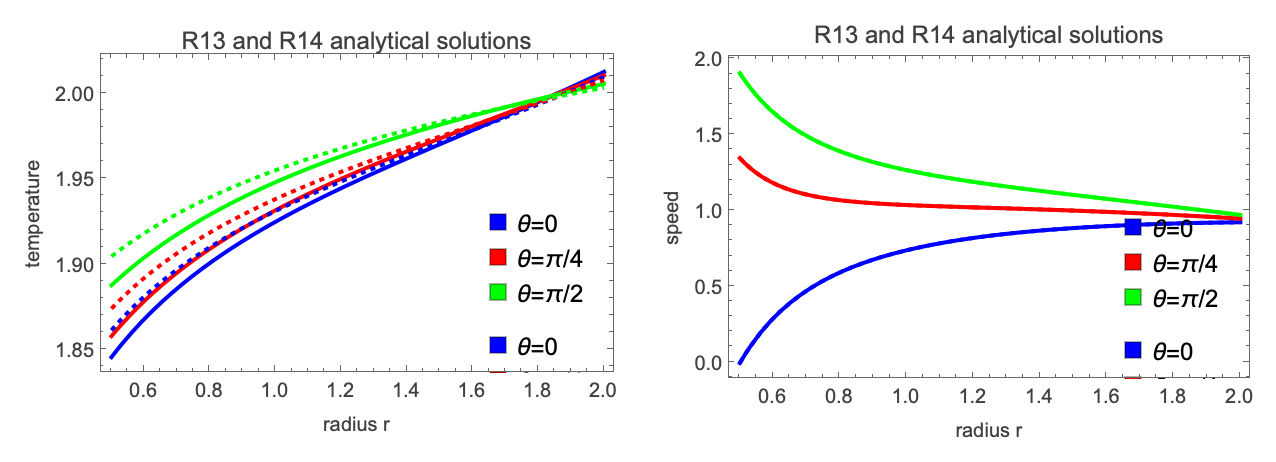
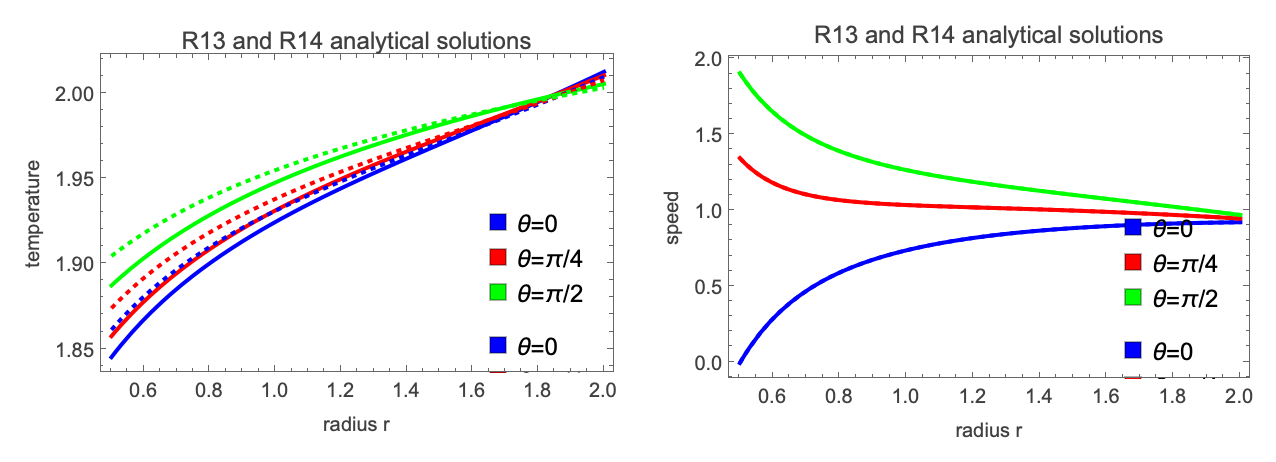
R14 converges (with generalized TaylorHood) and fixed Mathematica notebooks

Changed region(s): [[0.0917, 0.2727, 0.3362, 0.6667], [0.0611, 0.5455, 0.0917, 0.5758]]

diff --git a/tests/2d_r14/esols/1_coeffs_nosources_norot_inflow_positive.cpp b/tests/2d_r14/esols/1_coeffs_nosources_norot_inflow_positive.cpp
@@ -12,128 +12,41 @@ namespace py = pybind11;
 
 double kn = 1.0;
 
-// // Constants eps=10^-5
-// double C_0 = 1.088418574133493;
-// double C_1 = -0.4708784837854026;
-// double C_2 = -0.1060780078877844;
-// double C_3 = 0.6397363738946663;
-// double C_4 = -0.04268373030990083;
-// double C_5 = 0.1027291801998076;
-// double C_6 = -0.1867020667903523;
-// double C_7 = 2.864923360570221e-7;
-// double C_8 = 1.963244537638472;
-// double C_9 = 0.007704644954804194;
-// double CK_1 = -0.01841555365364274;
-// double CK_2 = 0.02647436311982035;
-// double CK_3 = -0.0722116290730638;
-// double CK_4 = 0.01263372155827893;
-// double CK_5 = 0.03846910453592139;
-// double CK_6 = 0.003998659067908465;
-// double CK_7 = 0.05469703377538136;
-// double CK_8 = 0.04448263813229264;
-// double CK_9 = -0.001607567940383826;
-// double CK_10 = 0.1781491089766695;
-
-// // Constants eps=10^-4
-// double C_0 = 1.088458465830652;
-// double C_1 = -0.4708795265589713;
-// double C_2 = -0.1060844454754048;
-// double C_3 = 0.6397268622237638;
-// double C_4 = -0.0426888328939176;
-// double C_5 = 0.1027285697835575;
-// double C_6 = -0.1867022145254646;
-// double C_7 = 2.864825757859002e-6;
-// double C_8 = 1.963244238669897;
-// double C_9 = 0.007703775736883896;
-// double CK_1 = -0.01841695056397639;
-// double CK_2 = 0.02647443224729624;
-// double CK_3 = -0.07220941121077909;
-// double CK_4 = 0.01263374077119675;
-// double CK_5 = 0.03846727512087732;
-// double CK_6 = 0.003998627065175332;
-// double CK_7 = 0.0547022288973836;
-// double CK_8 = 0.04447888927384885;
-// double CK_9 = -0.001604798505932295;
-// double CK_10 = 0.178170030606713;
-
-// // Constants eps=10^-3
-double C_0 = 0.;
-double C_1 = -1.013912644124032;
-double C_2 = -1.2677166806836977;
-double C_3 = 0.04992492338715168;
-double C_4 = 1.450672783912046;
-double C_5 = 0.;
-double C_6 = -0.5758748079393637;
-double C_7 = 0.10460960523903531;
-double C_8 = -0.08439250784359258;
-double C_9 = -0.05818511245891174;
-double C_10 = 0.044231601637359494;
-double C_11 = -0.12041762247811193;
-double CK_1 = -0.12330240809678536;
-double CK_2 = 2.672949922828857;
-double CK_3 = 0.01079637736731986;
-double CK_4 = -0.049087424652564535;
-double CK_5 = -0.0016650371020496696;
-double CK_6 = 0.6120973059811231;
-double CK_7 = 0.018332699081602767;
-double CK_8 = 0.049452314164954506;
-double CK_9 = -0.00002172097726484143;
-double CK_10 = 0.27405520113895676;
-double CK_11 = 0.0018031130578746815;
-double CK_12 = 0.06975633394673138;
-double CK_13 = 0.;
-double CK_14 = 0.;
-double CK_15 = -0.017056297688993596;
-double CK_16 = -0.12307639475900282;
-
-// // Constants eps=10^-2
-// double C_0 = 1.09277278324226;
-// double C_1 = -0.4709565408029582;
-// double C_2 = -0.1067733521869535;
-// double C_3 = 0.6386400415463009;
-// double C_4 = -0.04323806992636355;
-// double C_5 = 0.1026552684836559;
-// double C_6 = -0.1867184037607001;
-// double C_7 = 0.0002854059606868768;
-// double C_8 = 1.963211476840119;
-// double C_9 = 0.007609935703161957;
-// double CK_1 = -0.0185667325855968;
-// double CK_2 = 0.02647991106816222;
-// double CK_3 = -0.07196637153183492;
-// double CK_4 = 0.0126358461775725;
-// double CK_5 = 0.03826680259919404;
-// double CK_6 = 0.003995120114343059;
-// double CK_7 = 0.05526041387534725;
-// double CK_8 = 0.04406535024733006;
-// double CK_9 = -0.001300480668267124;
-// double CK_10 = 0.180421409499547;
-
-// // Constants eps=10^-1
-// double C_0 = 1.125921604594353;
-// double C_1 = -0.4686941217654443;
-// double C_2 = -0.1114820681020402;
-// double C_3 = 0.6256505450040041;
-// double C_4 = -0.04724969749859539;
-// double C_5 = 0.1015107112011764;
-// double C_6 = -0.1868598401676765;
-// double C_7 = 0.002753811809744579;
-// double C_8 = 1.962925254827631;
-// double C_9 = 0.006913904797024802;
-// double CK_1 = -0.01961423092232162;
-// double CK_2 = 0.0263626002451694;
-// double CK_3 = -0.06984306808715408;
-// double CK_4 = 0.01265423995026528;
-// double CK_5 = 0.03651538489775871;
-// double CK_6 = 0.003964481821802226;
-// double CK_7 = 0.05925618682225351;
-// double CK_8 = 0.04024172550289172;
-// double CK_9 = 0.001420920976733996;
-// double CK_10 = 0.1968170158183649;
-
-double lambda_1 = 0.6546536707079771;
+// Lambdas
+double lambda_1 = 0.5345224838248488;
 double lambda_2 = 0.9128709291752769;
 double lambda_3 = 1.224744871391589;
 double lambda_4 = 0.7453559924999299;
+
+// Constants
+double C_0 = 0.;
+double C_1 = -0.1477752433373134;
+double C_2 = -0.18478991652292415;
+double C_3 = 0.007616222250050322;
+double C_4 = 1.9613523915545736;
+double C_5 = 0.;
+double C_6 = -0.025990132046856542;
+double C_7 = -0.20544333345973814;
+double C_8 = 0.08546266837583295;
+double C_9 = -0.01965608692371418;
+double C_10 = -0.040261109257103515;
+double C_11 = 1.1399409455629295;
+double CK_1 = -0.12432069916127567;
+double CK_2 = 0.24749516983247868;
+double CK_3 = -0.02593994988782829;
+double CK_4 = -0.006941070313859298;
+double CK_5 = -0.009378323117905304;
+double CK_6 = 0.05358547329379231;
+double CK_7 = -0.06686833734375043;
+double CK_8 = 0.0005915756434353135;
+double CK_9 = -0.0019786615912372857;
+double CK_10 = 0.019027436471274847;
+double CK_11 = -0.013685132661250488;
+double CK_12 = 0.011110746687159737;
+double CK_13 = 0.;
+double CK_14 = 0.;
+double CK_15 = 0.045818412638178437;
+double CK_16 = 0.06590993098932302;
 
 double BI( int n, double x ) { return boost::math::cyl_bessel_i(n,x); }
 double BK( int n, double x ) { return boost::math::cyl_bessel_k(n,x); }
@@ -157,9 +70,10 @@ class Temperature : public dolfin::Expression {
         double R = sqrt(pow(x[0],2)+pow(x[1],2));
         double phi = atan2(x[1],x[0]);
 
+        // Temperature
         double c_0 = C_4 - (CK_1*I_0((lambda_1*R)/kn))/15. - (8*CK_5*I_0((lambda_2*R)/kn))/15. - (CK_2*K_0((lambda_1*R)/kn))/15. - (8*CK_6*K_0((lambda_2*R)/kn))/15. - (4*C_2*log(R/kn))/15.;
         double c = (C_9*kn)/R + (C_10*R)/kn - (CK_3*I_1((lambda_1*R)/kn))/15. - (16*CK_7*I_1((lambda_2*R)/kn))/15. - (CK_4*K_1((lambda_1*R)/kn))/15. - (16*CK_8*K_1((lambda_2*R)/kn))/15.;
-
+        
         double theta = c_0 + cos(phi) * c;
 
         values[0] = theta;
@@ -177,7 +91,6 @@ class Heatflux : public dolfin::Expression {
 
         double alpha_0 = (C_2*kn)/R;
         double alpha = (-15*C_10)/4. - 3*C_8 - (1.5*C_7*pow(kn,2))/pow(R,2) + (3.75*C_9*pow(kn,2))/pow(R,2) + CK_15*(I_0((lambda_4*R)/kn) - I_2((lambda_4*R)/kn)) + CK_16*(K_0((lambda_4*R)/kn) - K_2((lambda_4*R)/kn));
-
         double beta_0 = CK_13*I_1((lambda_4*R)/kn) + CK_14*K_1((lambda_4*R)/kn);
         double beta = (-15*C_10)/4. - 3*C_8 + (1.5*C_7*pow(kn,2))/pow(R,2) - (3.75*C_9*pow(kn,2))/pow(R,2) + CK_15*(I_0((lambda_4*R)/kn) + I_2((lambda_4*R)/kn)) + CK_16*(K_0((lambda_4*R)/kn) + K_2((lambda_4*R)/kn));
 
@@ -201,8 +114,8 @@ class Pressure : public dolfin::Expression {
         double R   = sqrt(pow(x[0],2)+pow(x[1],2));
         double phi = atan2(x[1],x[0]);
 
-        double d_0 = C_9 + CK_4*I_0((R*lambda_2)/kn) + CK_3*K_0((R*lambda_2)/kn);
-        double d = (4*C_4*R)/kn - (2*C_5*kn)/R + CK_10*I_1((R*lambda_2)/kn) + CK_9*K_1((R*lambda_2)/kn);
+        double d_0 = C_3 - (4*CK_5*I_0((lambda_2*R)/kn))/3. - (4*CK_6*K_0((lambda_2*R)/kn))/3.;
+        double d = (C_7*kn)/R - (2.*C_8*R)/kn - (8*CK_7*I_1((lambda_2*R)/kn))/3. - (8*CK_8*K_1((lambda_2*R)/kn))/3.;
 
         double p = d_0 + cos(phi) * d;
 
@@ -221,7 +134,6 @@ class Velocity : public dolfin::Expression {
 
         double a_0 = (0.5*C_1*kn)/R - (0.4*C_2*kn)/R;
         double a = C_11 + (0.25*C_6*pow(kn,2))/pow(R,2) - (1.5*C_9*pow(kn,2))/pow(R,2) - (0.25*C_8*pow(R,2))/pow(kn,2) + CK_15*((-2*I_0((lambda_4*R)/kn))/5. + (2*I_2((lambda_4*R)/kn))/5.) + CK_16*((-2*K_0((lambda_4*R)/kn))/5. + (2*K_2((lambda_4*R)/kn))/5.) + C_7*(0.5 + (1.6666666666666667*pow(kn,2))/pow(R,2) - log(R/kn)/2.);
-
         double b_0 = (0.5*C_0*kn)/R + (C_5*R)/kn - (2*CK_13*I_1((lambda_4*R)/kn))/5. - (2*CK_14*K_1((lambda_4*R)/kn))/5.;
         double b = C_11 - (0.25*C_6*pow(kn,2))/pow(R,2) + (1.5*C_9*pow(kn,2))/pow(R,2) - (0.75*C_8*pow(R,2))/pow(kn,2) + CK_15*((-2*I_0((lambda_4*R)/kn))/5. - (2*I_2((lambda_4*R)/kn))/5.) + CK_16*((-2*K_0((lambda_4*R)/kn))/5. - (2*K_2((lambda_4*R)/kn))/5.) + C_7*((-1.6666666666666667*pow(kn,2))/pow(R,2) - log(R/kn)/2.);
 
@@ -247,10 +159,8 @@ class Stress : public dolfin::Expression {
 
         double gamma_0 = (C_1*pow(kn,2))/pow(R,2) + CK_5*(I_0((lambda_2*R)/kn)/3. + I_2((lambda_2*R)/kn)) + CK_9*(-I_0((lambda_3*R)/kn) + I_2((lambda_3*R)/kn)) + CK_6*(K_0((lambda_2*R)/kn)/3. + K_2((lambda_2*R)/kn)) + CK_10*(-K_0((lambda_3*R)/kn) + K_2((lambda_3*R)/kn));
         double gamma = (C_6*pow(kn,3))/pow(R,3) + (C_7*kn)/R + (C_8*R)/kn + CK_7*((5*I_1((lambda_2*R)/kn))/3. + I_3((lambda_2*R)/kn)) + CK_11*(-I_1((lambda_3*R)/kn) + I_3((lambda_3*R)/kn)) + CK_8*((5*K_1((lambda_2*R)/kn))/3. + K_3((lambda_2*R)/kn)) + CK_12*(-K_1((lambda_3*R)/kn) + K_3((lambda_3*R)/kn));
-
         double kappa_0 = (C_0*pow(kn,2))/pow(R,2);
         double kappa = (C_6*pow(kn,3))/pow(R,3) - (C_8*R)/kn + CK_7*(-I_1((lambda_2*R)/kn) + I_3((lambda_2*R)/kn)) + CK_11*(-I_1((lambda_3*R)/kn) + I_3((lambda_3*R)/kn)) + CK_8*(-K_1((lambda_2*R)/kn) + K_3((lambda_2*R)/kn)) + CK_12*(-K_1((lambda_3*R)/kn) + K_3((lambda_3*R)/kn));
-
         double omega_0 = (C_1*pow(kn,2))/pow(R,2) + CK_5*(-0.3333333333333333*I_0((lambda_2*R)/kn) + I_2((lambda_2*R)/kn)) + CK_9*(I_0((lambda_3*R)/kn) + I_2((lambda_3*R)/kn)) + CK_6*(-0.3333333333333333*K_0((lambda_2*R)/kn) + K_2((lambda_2*R)/kn)) + CK_10*(K_0((lambda_3*R)/kn) + K_2((lambda_3*R)/kn));
         double omega = (C_6*pow(kn,3))/pow(R,3) + (C_7*kn)/R + (C_8*R)/kn + CK_7*(I_1((lambda_2*R)/kn)/3. + I_3((lambda_2*R)/kn)) + CK_11*(3*I_1((lambda_3*R)/kn) + I_3((lambda_3*R)/kn)) + CK_8*(K_1((lambda_2*R)/kn)/3. + K_3((lambda_2*R)/kn)) + CK_12*(3*K_1((lambda_3*R)/kn) + K_3((lambda_3*R)/kn));
 